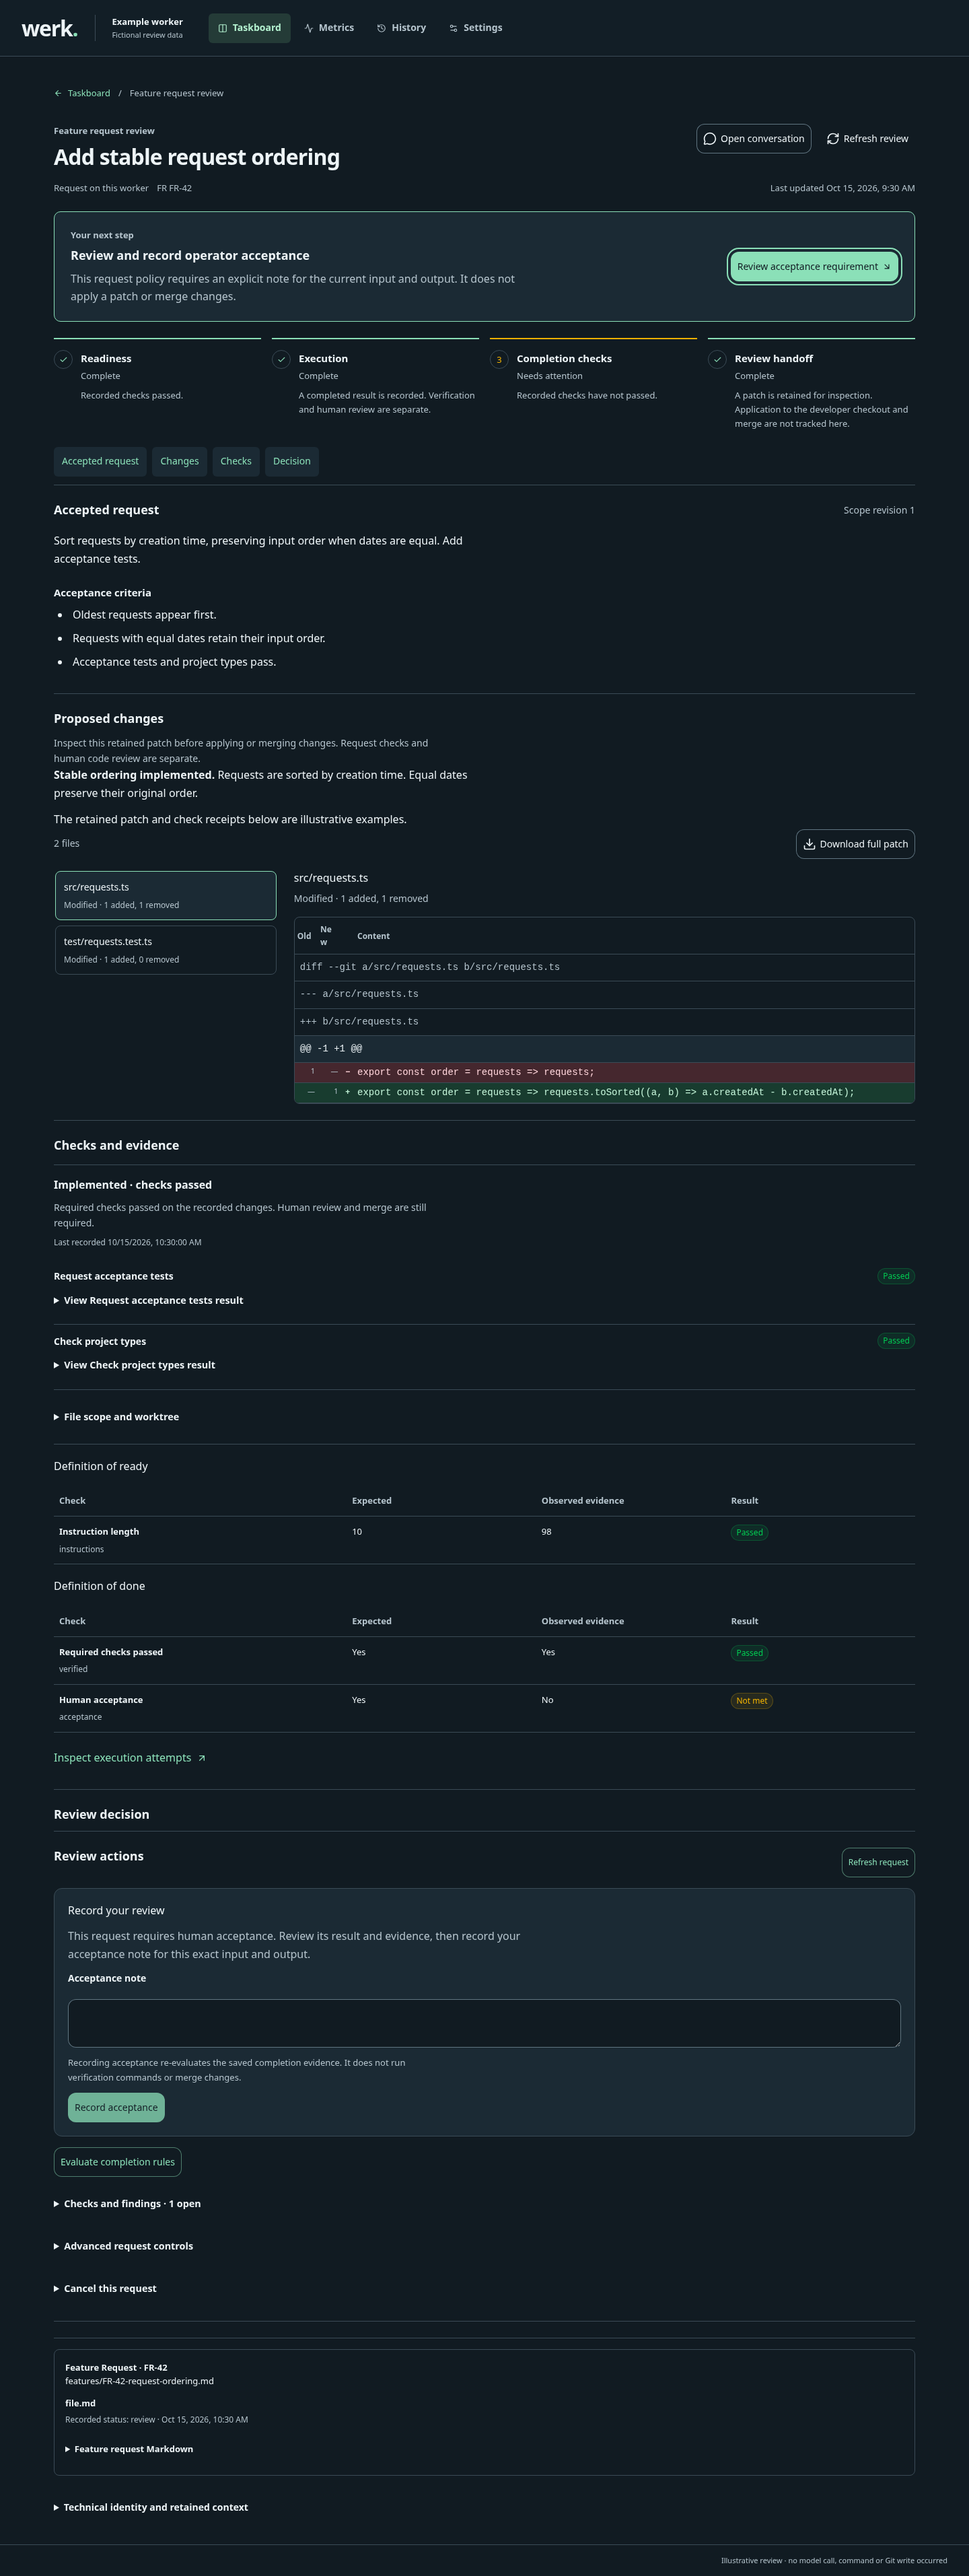
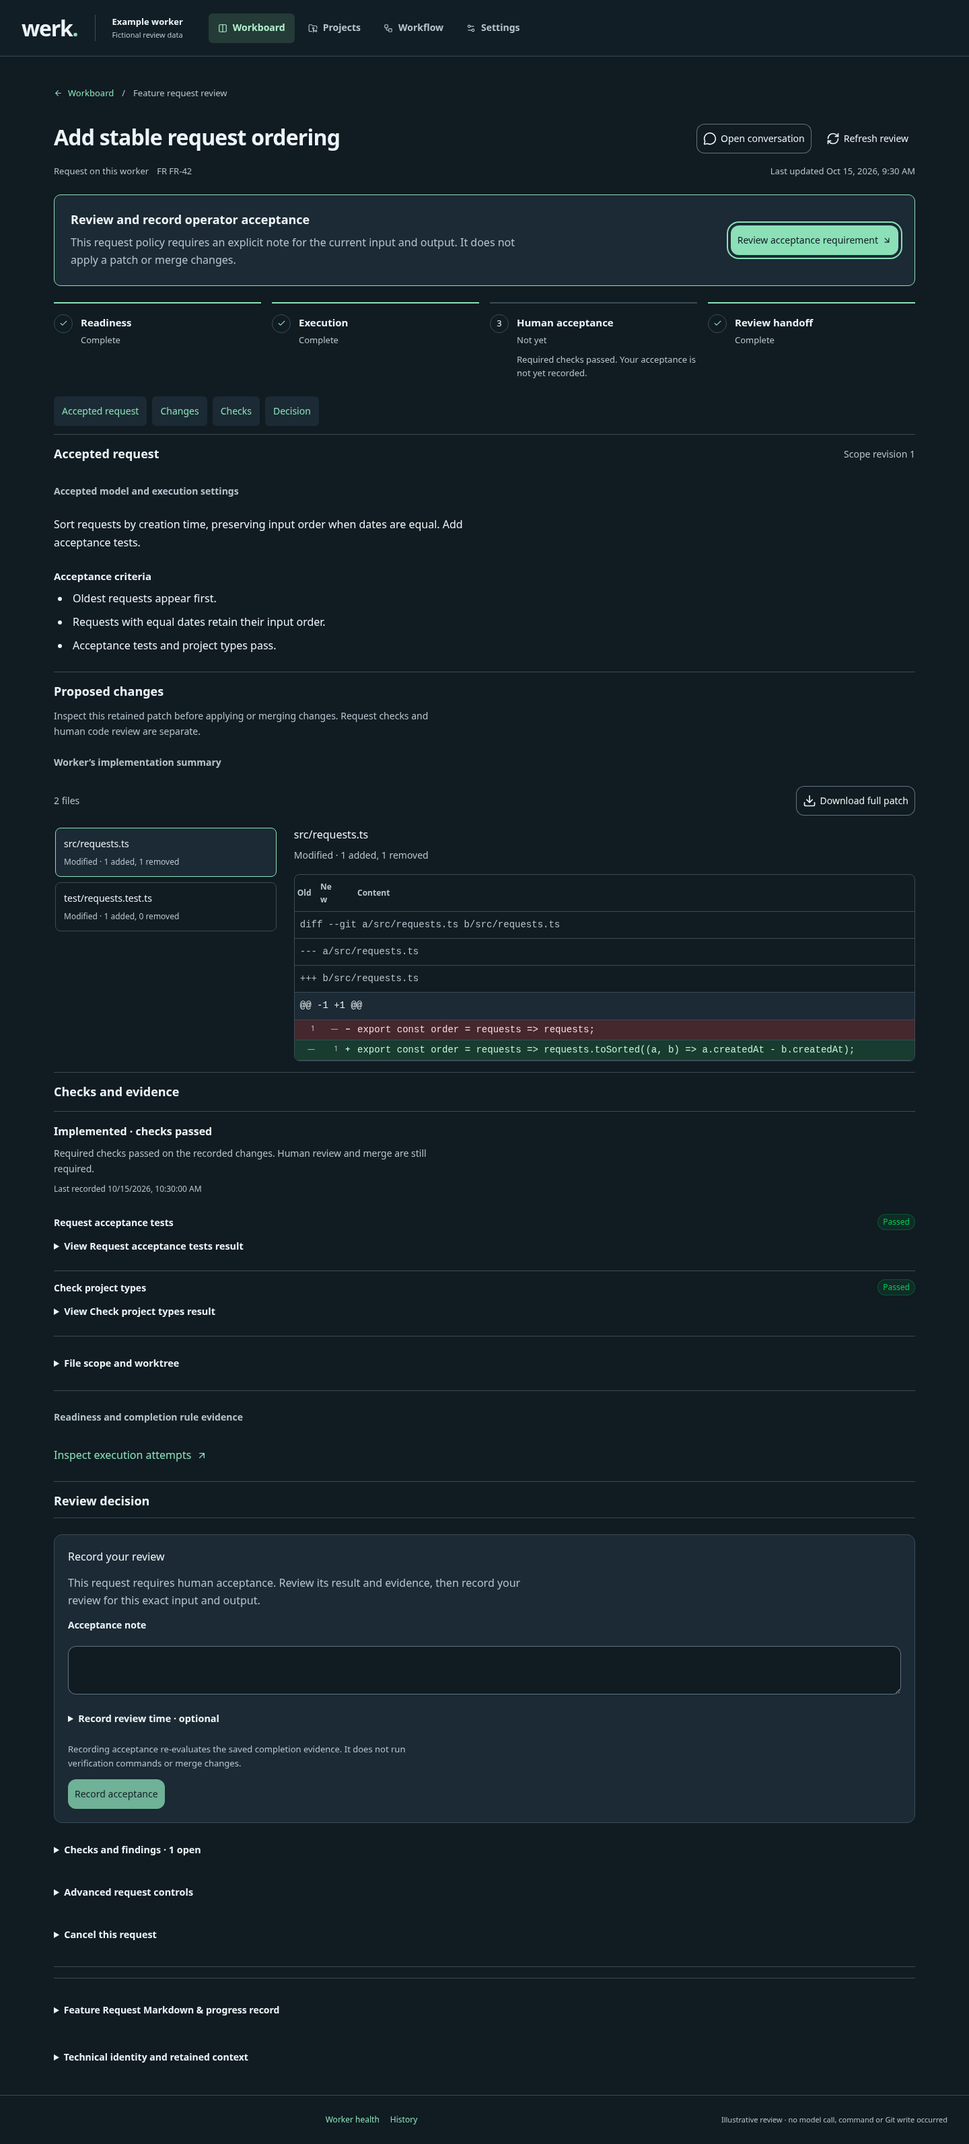
docs(werk): refresh release imagery and central Home example

diff --git a/projects/werk/storybook/worker.stories.ts b/projects/werk/storybook/worker.stories.ts
@@ -4,6 +4,7 @@ import { userEvent, within } from 'storybook/test';
 import { h, KeepAlive, nextTick, type Component } from 'vue';
 import UApp from '@nuxt/ui/components/App.vue';
 import App from '../src/worker/webview/App.vue';
+import { state } from '../src/worker/webview/store';
 import WorkerShell from '../src/worker/webview/components/WorkerShell.vue';
 import RequestPage from '../src/worker/webview/pages/RequestPage.vue';
 import TaskboardPage from '../src/worker/webview/pages/TaskboardPage.vue';
@@ -31,11 +32,12 @@ type Story = StoryObj;
 const source = (path: string) => 'src/worker/webview/' + path + '.vue';
 
 const storymap = (summary: string, covers: string[], route = '/workboard', step?: number) => ({ app: 'Worker', summary, covers: covers.map(source), route, ready: '[data-worker-story-ready]', ...(step ? { journey: 'Give work to a worker, steer it, and review its evidence', step } : {}) });
-function renderPage(component: Component, variant: WorkerFixture = 'populated') {
+function renderPage(component: Component, variant: WorkerFixture = 'populated', home = false) {
   return () => ({ setup() {
     installWorkerFixture(variant);
+    if (home) state.environment!.homeLayout = 'central';
     return () => h(UApp, null, { default: () => h(WorkerShell, { links, homePath: '/workboard', homeLabel: 'Werk worker home', navLabel: 'Worker pages' }, {
-      identity: () => h('div', { class: 'worker-identity' }, [h('div', [h('strong', 'Werk release'), h('span', 'Worker storybook · example data')])]),
+      identity: () => h('div', { class: 'worker-identity' }, [h('div', [h('strong', home ? 'Werk Home' : 'Werk release'), h('span', 'Worker storybook · example data')])]),
       status: () => h('span', { class: 'muted' }, 'Isolated example · no model connected'),
       default: () => h(KeepAlive, null, { default: () => h(component) }),
       footer: () => 'Illustrative fixture · saved tasks and model evidence',
@@ -300,7 +302,7 @@ export const DefaultProvider: Story = {
   name:'Choose the default provider',parameters:{storymap:storymap('The default provider has its own saved baseline, separate from changing credentials for a connection.',['pages/SettingsPage','components/SettingsPanel'],'/settings#default-provider')},render:renderPage(SettingsPage,'settings-ready'),play:async({canvasElement})=>{await element(canvasElement,'#worker-default-provider');if(canvasElement.querySelector('#provider-connection'))throw Error('The default view must not configure a second account.');await ready(canvasElement);},
 };
 export const SettingsDirectory: Story = {
-  name:'Choose one worker setting',parameters:{storymap:storymap('Settings opens as a grouped task directory. No settings form or save is active until an operator chooses a goal.',['pages/SettingsPage'],'/settings')},render:renderPage(SettingsPage,'settings-ready'),play:async({canvasElement})=>{const q=within(canvasElement);await q.findByRole('heading',{name:'Worker settings'});if(canvasElement.querySelector('form'))throw Error('Settings directory must not mount unrelated editors.');await ready(canvasElement);},
+  name:'Choose one worker setting',parameters:{storymap:storymap('Settings opens as a grouped task directory. No settings form or save is active until an operator chooses a goal.',['pages/SettingsPage'],'/settings')},render:renderPage(SettingsPage,'settings-ready',true),play:async({canvasElement})=>{const q=within(canvasElement);await q.findByRole('heading',{name:'Worker settings'});if(q.queryByText('Legacy project configuration'))throw Error('Central Home must not expose legacy project configuration.');if(canvasElement.querySelector('form'))throw Error('Settings directory must not mount unrelated editors.');await ready(canvasElement);},
 };
 export const ToolAccessSettings: Story = {
   name: '30 · Configure tools and MCP',

diff --git a/projects/werk/docs/evidence/readme/README.md b/projects/werk/docs/evidence/readme/README.md
@@ -1,7 +1,7 @@
 # README screenshots
 
-Generated from the qualified real Vue components for Werk 0.12.0, commit `8aa2f88ddce2b51e2e011ab194fadd848db3d994`.
-Capture: 2026-10-18T13:15:56.947Z. Fixture clock: 2026-10-15T09:30:00.000Z.
+Generated from the qualified real Vue components for Werk 0.17.0, commit `773dc427539e6d9c7ad371eafe671b810c8d3cf0`.
+Capture: 2026-10-26T17:48:47.572Z. Fixture clock: 2026-10-15T09:30:00.000Z.
 
 These browser captures use deterministic **sample data**. They do not establish
 live model execution, real account usage, Git publication or human acceptance.
@@ -9,14 +9,16 @@ No screenshot has been retouched; these are the exact qualified PNG bytes.
 
 | Image | Story | Viewport | Image size |
 | --- | --- | --- | --- |
-| [Worker taskboard showing capacity and requests grouped by their current state.](worker-taskboard.png) | `worker-workspace--populated-taskboard` | desktop | 1440 × 1246 |
-| [Shared Feature Request authoring in the worker, with request instructions and the Prepare request action.](worker-create-request.png) | `worker-shared-feature-requests--describe-request` | desktop | 1440 × 1000 |
-| [Worker Metrics with current capacity, configured token allowance, resources and execution activity.](worker-metrics.png) | `worker-metrics--active-worker` | desktop | 1440 × 3198 |
-| [Feature Request review with the accepted goal, changed files, required checks and the next human action.](worker-review.png) | `worker-review--verified-candidate` | desktop | 1440 × 3827 |
-| [Worker settings with provider connections and navigation to repositories, tool access and consumption settings.](worker-settings.png) | `worker-workspace--worker-settings` | desktop | 1440 × 1275 |
+| [Workboard prioritizing requests that need input and increments ready for review.](worker-taskboard.png) | `worker-workboard-journey--review-lane` | desktop | 1440 × 1524 |
+| [Project directory showing isolated Home checkout paths and an explicit Add a project action.](worker-projects.png) | `worker-workboard-journey--visible-home-projects` | desktop | 1440 × 1000 |
+| [Focused New Feature Request view with project, goal, acceptance criteria and explicit Git publication.](worker-create-request.png) | `worker-workboard-journey--canonical-request` | desktop | 1440 × 2173 |
+| [Worker health with resources, measured consumption and execution activity.](worker-metrics.png) | `worker-metrics--active-worker` | desktop | 1440 × 2645 |
+| [Workflow health with recorded stage pressure, confirmed-increment velocity and measurement coverage.](worker-workflow.png) | `worker-workflow--observed-delivery` | desktop | 1440 × 2169 |
+| [Feature Request review with the accepted goal, changed files, required checks and the next human action.](worker-review.png) | `worker-review--verified-candidate` | desktop | 1440 × 3186 |
+| [Settings directory grouping independent worker settings by the task to perform.](worker-settings.png) | `worker-workspace--settings-directory` | desktop | 1440 × 1000 |
 
 [Machine-readable provenance](provenance.json) records source identity and every image hash.
[2 lines of base64/hex data omitted]
 
-Refresh instructions are maintained in [README generation](https://github.com/Luis85/production-line/blob/8aa2f88ddce2b51e2e011ab194fadd848db3d994/projects/werk/docs/how-to/generate-readme.md).
+Refresh instructions are maintained in [README generation](https://github.com/Luis85/production-line/blob/773dc427539e6d9c7ad371eafe671b810c8d3cf0/projects/werk/docs/how-to/generate-readme.md).
 Release generation writes separate artifacts and never commits changes to the source branch.

diff --git a/projects/werk/CHANGELOG.md b/projects/werk/CHANGELOG.md
@@ -9,7 +9,7 @@ Versioned entries use the release date in Europe/Berlin. This log starts with
 
 ## [0.17.0] - 2026-10-26
 
-Qualification: native archive, browser, Git, Docker and VM checks use labelled protocol fixtures. Real Windows/Claude-account execution and live worker-managed GitHub Release publication remain separately qualified in the [acceptance ledger](docs/reports/worker-release-workflow-acceptance.md).
+Qualification: native archive, browser, Git, Docker and VM checks use labelled protocol fixtures. Real Windows/Claude-account execution and live worker-managed GitHub Release publication remain separately qualified in the [acceptance ledger](https://github.com/Luis85/production-line/blob/main/projects/werk/docs/reports/worker-release-workflow-acceptance.md).
 
 ### Added
 

diff --git a/projects/werk/docs/how-to/generate-readme.md b/projects/werk/docs/how-to/generate-readme.md
@@ -84,7 +84,7 @@ pictures.
 
 ## Keep current images separate from history
 
-[Documentation evidence](../evidence/README.md) separates the current curated
+[Documentation evidence](https://github.com/Luis85/production-line/blob/main/projects/werk/docs/evidence/README.md) separates the current curated
 `readme/` pictures from `archive/`. Never replace historical screenshots with a
 new UI: they substantiate dated reports. Keep raw validation and mutation receipts.
 Before removing an unreferenced image, check maintained links and receipt references,
